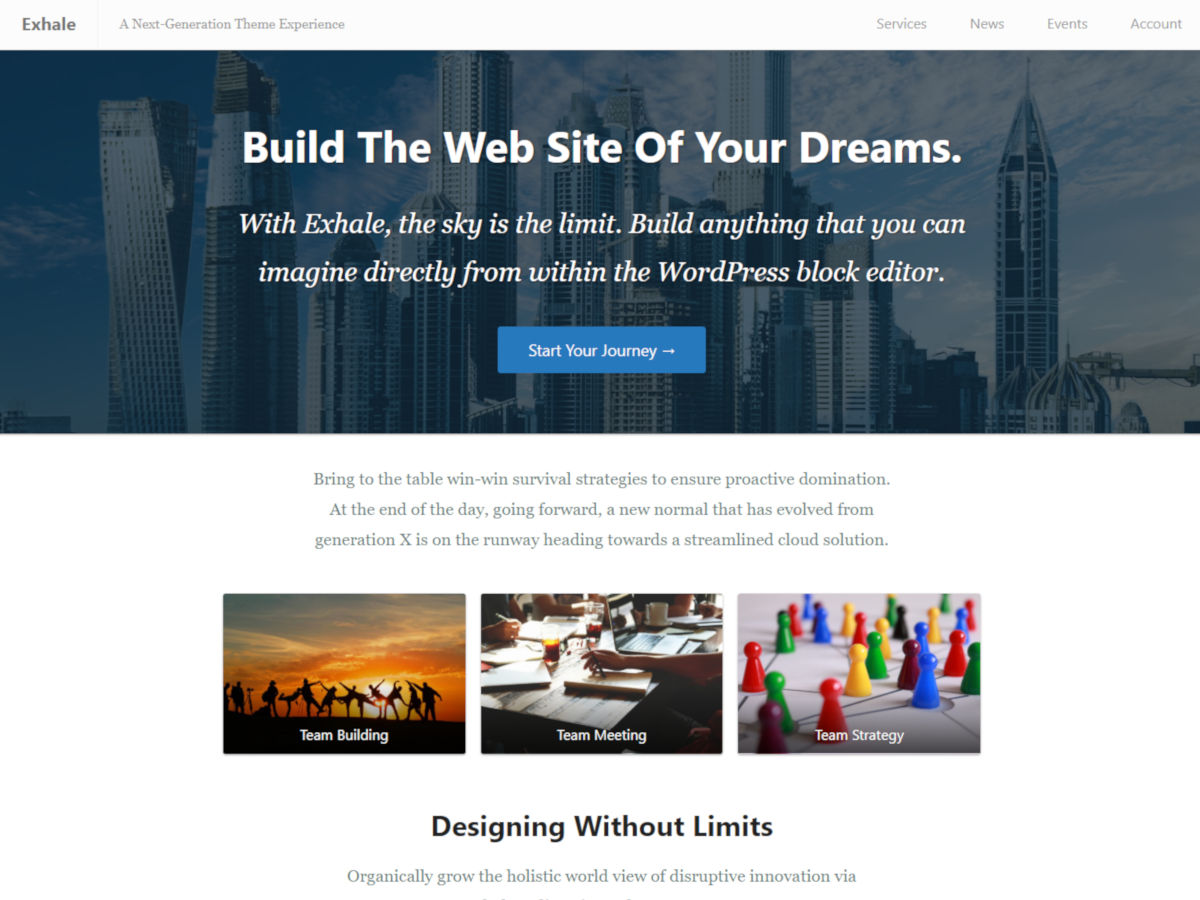
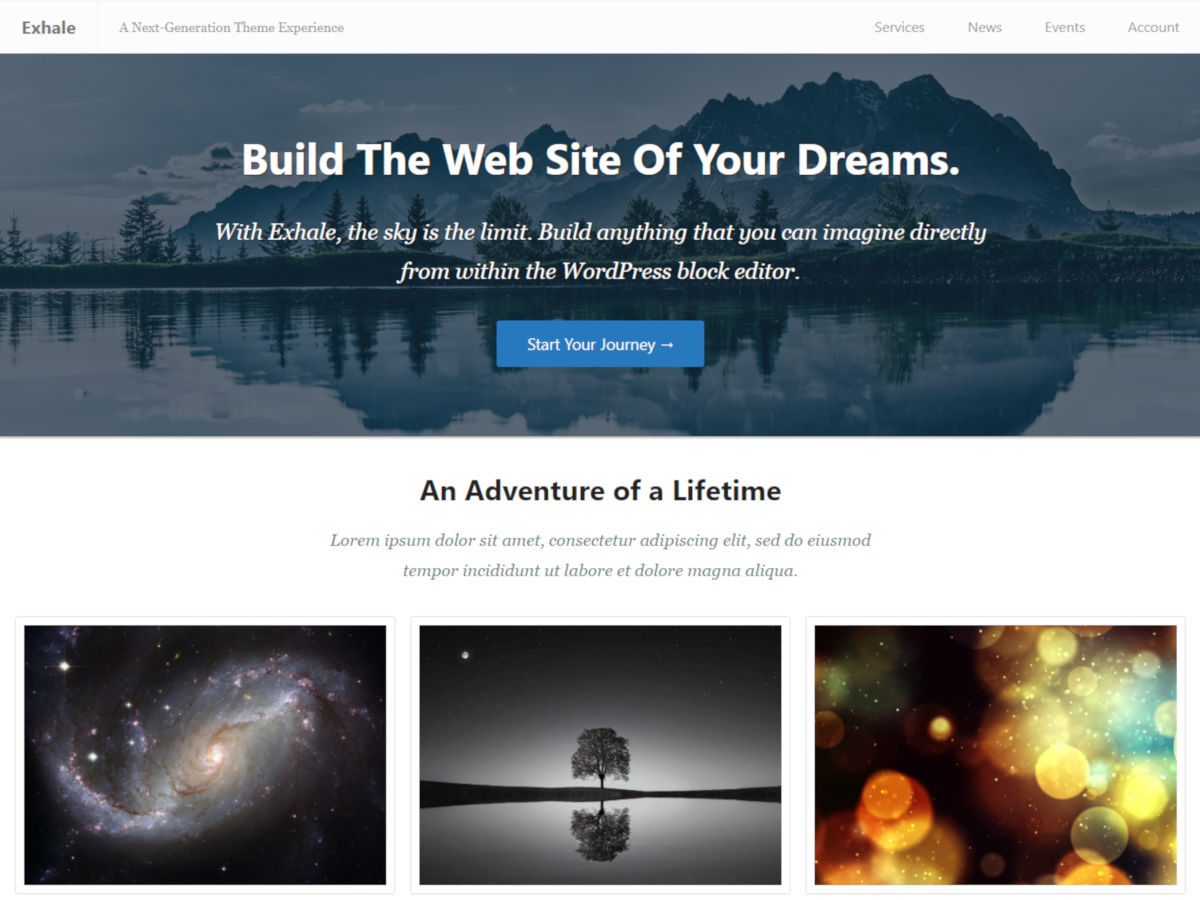
Update screenshot.

diff --git a/readme.md b/readme.md
@@ -12,7 +12,7 @@ There's a few requirements in order to develop a new theme or contribute back to
 
 * PHP 5.6+ (preferably 7+).
 * WordPress 5.0.
-* Gutenberg 5.3+ or WordPress 5.2+ for Gutenberg block styles.
+* Gutenberg 5.6+ or WordPress 5.2+ for Gutenberg block styles.
 
 ## Resources
 
@@ -26,10 +26,10 @@ The theme bundles the following resources.
 
 The theme uses the following third-party images within the screenshot, which are all under the [CC0 License](https://creativecommons.org/publicdomain/zero/1.0/) (Public Domain).
 
-- https://www.pexels.com/photo/architecture-buildings-business-city-358502/
-- https://www.pexels.com/photo/adventure-backlit-dawn-dusk-207896/
-- https://www.pexels.com/photo/yellow-blue-and-red-plastic-gameboard-toy-209712/
-- https://www.pexels.com/photo/people-notes-meeting-team-7095/
+- https://www.pexels.com/photo/daylight-environment-forest-idyllic-459225/
+- https://www.pexels.com/photo/sky-space-dark-galaxy-2150/
+- https://www.pexels.com/photo/background-beautiful-blossom-calm-waters-268533/
+- https://www.pexels.com/photo/background-blur-bokeh-bright-220067/
 
 ## Copyright and License
 
